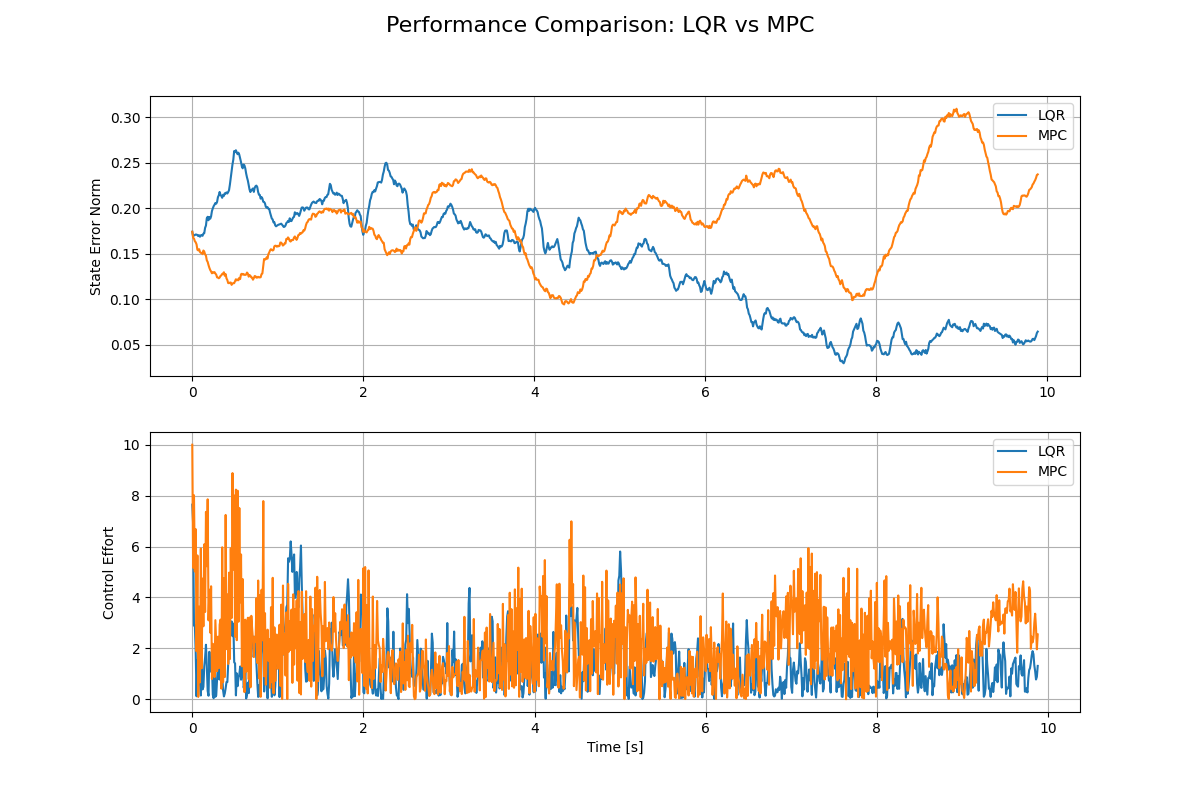
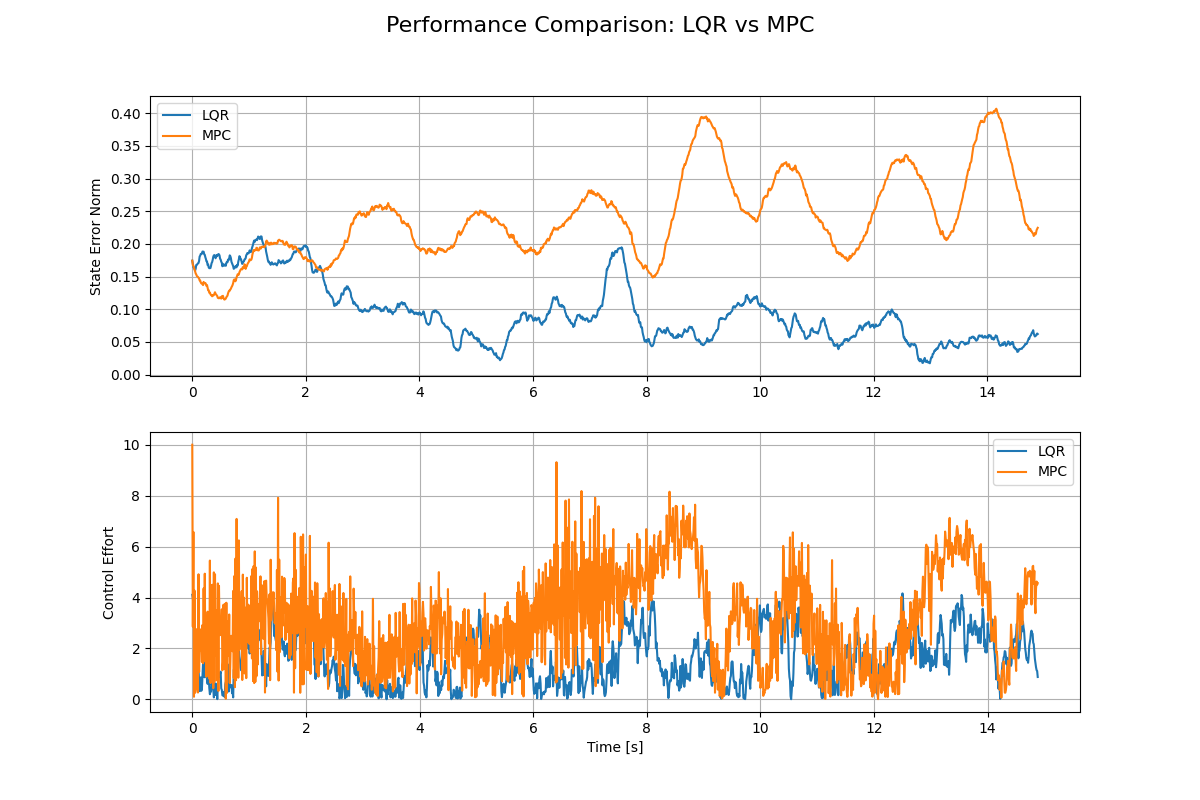
task1 e plot task 3_4

diff --git a/scripts/task3_4.py b/scripts/task3_4.py
@@ -9,8 +9,8 @@ from dynamics import FlexibleRoboticArm
 from newton import NewtonOptimizer
 from animate import FlexibleRobotAnimator
 from parameters import (
-    m1, m2, l1, l2, r1, r2, I1, I2, g, f1, f2, dt, ns, ni
-)
+    m1, m2, l1, l2, r1, r2, I1, I2, g, f1, f2, dt, ns, ni, Q3, R3, QT3, Q4, R4, N4
+    )
 
 # Configure CVXOPT solver
 solvers.options.update({'show_progress': False, 'abstol': 1e-10, 'reltol': 1e-10, 'feastol': 1e-10})
@@ -208,16 +208,16 @@ class SimulationManager:
         # Initialize controllers
         lqr = LQRController(
             self.arm,
-            Q=np.diag([15.0, 15.0, 1.0, 1.0]),
-            R=0.0001 * np.eye(1),
-            QT=np.diag([20.0, 20.0, 1.0, 1.0])
+            Q=Q3,
+            R=R3,
+            QT=QT3
         )
         
         mpc = MPCController(
             self.arm,
-            Q=np.diag([20.0, 20.0, 10.0, 10.0]),
-            R=0.0001 * np.eye(1),
-            N=10
+            Q=Q4,
+            R=R4,
+            N=N4
         )
         
         # Run simulations
@@ -228,7 +228,29 @@ class SimulationManager:
             'lqr': (xx_lqr, uu_lqr),
             'mpc': (xx_mpc, uu_mpc)
         }
-
+    
+    def run_lqr(self, x_ref: np.ndarray, u_ref: np.ndarray, 
+                disturbances: Dict) -> Tuple[np.ndarray, np.ndarray]:
+        """Esegui solo il controllore LQR"""
+        lqr = LQRController(
+            self.arm,
+            Q=Q3,
+            R=R3,
+            QT=QT3
+        )
+        return lqr.simulate(x_ref, u_ref, disturbances)
+    
+    def run_mpc(self, x_ref: np.ndarray, u_ref: np.ndarray, 
+                disturbances: Dict) -> Tuple[np.ndarray, np.ndarray]:
+        """Esegui solo il controllore MPC"""
+        mpc = MPCController(
+            self.arm,
+            Q=Q4,
+            R=R4,
+            N=N4
+        )
+        return mpc.simulate(x_ref, u_ref, disturbances)
+    
     def plot_comparison(self, x_ref: np.ndarray, u_ref: np.ndarray, 
                     results: Dict, save_plots: bool = True):
         """Plot comparison of LQR and MPC results"""
@@ -300,7 +322,47 @@ class SimulationManager:
                 print(f"Error saving plots: {e}")
         
         plt.show()
-
+    
+    def plot_single(self, x_ref: np.ndarray, u_ref: np.ndarray, 
+                    result: Tuple[np.ndarray, np.ndarray], controller_name: str,
+                    save_plot: bool = True):
+        """Plot per un singolo controllore"""
+        xx, uu = result
+        T_ref = x_ref.shape[1]
+        T_sim = xx.shape[1]
+        T = min(T_ref, T_sim)
+        time = np.arange(T) * dt
+        
+        fig, axs = plt.subplots(5, 1, figsize=(12, 15), sharex=True)
+        fig.suptitle(f'Simulazione con {controller_name}', fontsize=16)
+        
+        state_labels = [r'$\theta_1$', r'$\theta_2$', 
+                        r'$\dot{\theta}_1$', r'$\dot{\theta}_2$']
+        for i in range(4):
+            ax = axs[i]
+            ax.plot(time, x_ref[i, :T], 'k--', label='Riferimento', alpha=0.7)
+            ax.plot(time, xx[i, :T], 'b-', label=controller_name, alpha=0.8)
+            ax.set_ylabel(state_labels[i])
+            ax.grid(True)
+            ax.legend()
+            
+        ax = axs[4]
+        ax.plot(time, u_ref[0, :T], 'k--', label='Riferimento', alpha=0.7)
+        # Controllo: la traiettoria degli input ha una lunghezza T-1
+        ax.plot(time[:-1], uu[0, :(T-1)], 'b-', label=controller_name, alpha=0.8)
+        ax.set_ylabel('Input di Controllo u')
+        ax.set_xlabel('Tempo [s]')
+        ax.grid(True)
+        ax.legend()
+        
+        plt.tight_layout()
+        if save_plot:
+            try:
+                fig.savefig(f'plots/{controller_name.lower()}_simulation.png')
+                print(f"Plot per {controller_name} salvato correttamente")
+            except Exception as e:
+                print(f"Errore nel salvataggio del plot: {e}")
+        plt.show()
 
 def main():
     """Main execution function"""
@@ -321,18 +383,41 @@ def main():
             "gaussian_std": 0.002,
         }
         
-        # Create simulation manager and run comparison
+        # Se si desidera perturbare anche i parametri del sistema
+        if disturbances.get("perturbed_params"):
+            arm = FlexibleRoboticArm(m1 * 1.03, m2 * 1.05, l1 * 1.02, l2 * 1.04, r1, r2, I1, I2, g, f1, f2, dt, ns, ni)
+        
         sim_manager = SimulationManager(arm)
-        results = sim_manager.run_comparison(x_ref, u_ref, disturbances)
         
-        # Plot results
-        sim_manager.plot_comparison(x_ref, u_ref, results)
+        # Scegli la modalità di simulazione
+        print("Seleziona la modalità di simulazione:")
+        print("1 - Solo LQR")
+        print("2 - Solo MPC")
+        print("3 - Confronto (LQR e MPC)")
+        mode = input("Inserisci 1, 2 o 3: ").strip()
         
-        # Optionally animate results
-        animate = False
-        if animate:
-            animator = FlexibleRobotAnimator(results['mpc'][0].T, dt=dt)
-            animator.animate()
+        if mode == "1":
+            print("Esecuzione della simulazione con LQR...")
+            result = sim_manager.run_lqr(x_ref, u_ref, disturbances)
+            sim_manager.plot_single(x_ref, u_ref, result, "LQR")
+            
+        elif mode == "2":
+            print("Esecuzione della simulazione con MPC...")
+            result = sim_manager.run_mpc(x_ref, u_ref, disturbances)
+            sim_manager.plot_single(x_ref, u_ref, result, "MPC")
+            
+        elif mode == "3":
+            print("Esecuzione della simulazione per il confronto LQR vs MPC...")
+            results = sim_manager.run_comparison(x_ref, u_ref, disturbances)
+            sim_manager.plot_comparison(x_ref, u_ref, results)
+            
+            # Esempio: per animare il risultato MPC (opzionale)
+            animate = input("Vuoi animare il risultato MPC? (s/n): ").strip().lower() == 's'
+            if animate:
+                animator = FlexibleRobotAnimator(results['mpc'][0].T, dt=dt)
+                animator.animate()
+        else:
+            print("Modalità non valida. Terminazione del programma.")
         
     except FileNotFoundError:
         print("Error: Could not find trajectory file")

diff --git a/scripts/task1.py b/scripts/task1.py
@@ -5,12 +5,14 @@ from traj import TrajectoryGenerator, TrajectoryType
 from newton import NewtonOptimizer
 from parameters import m1, m2, l1, l2, r1, r2, I1, I2, g, f1, f2, dt, ns, ni, fixed_stepsize, stepsize_0, cc, beta, armijo_maxiters
 from parameters import Q1, R1, QT1
+from utils import generate_u_ref
 from animate import FlexibleRobotAnimator
+from matplotlib import pyplot as plt
 
 if __name__ == "__main__":
 
-    T = 3.0  # Total time
-    plot = True
+    T = 3.5  # Total time
+    plot = False
     plot_armijo = False
     
     # Initialize system
@@ -24,13 +26,25 @@ if __name__ == "__main__":
     print('\nGenerating reference trajectory...\n')
     traj_gen = TrajectoryGenerator(x_waypoints, waypoint_times, T, dt)
     x_ref, t_array = traj_gen.generate_trajectory(TrajectoryType.STEP)
+    u_ref = generate_u_ref(arm, x_ref)
     print('Reference trajectory generated.\n')
 
     if plot:
         traj_gen.plot_trajectory(TrajectoryType.STEP)
 
+        # Plot u_ref
+        plt.figure()
+        u_plot = np.squeeze(u_ref)
+        plt.plot(t_array[:-1], u_plot, label='u_ref')
+        plt.xlabel('Time (s)')
+        plt.ylabel('Control Input')
+        plt.title("Reference Control Input Trajectory (u_ref)")
+        plt.legend()
+        plt.grid(True)
+        plt.show()
+
     x_ref = x_ref.T
-    u_ref = np.zeros((ni, x_ref.shape[1]-1))
+    u_ref = u_ref.T
 
     # Initialize optimizer
     optimizer = NewtonOptimizer(arm, cost, dt, fixed_stepsize, stepsize_0, cc, beta, armijo_maxiters)
@@ -38,7 +52,7 @@ if __name__ == "__main__":
     print('Optimizing...\n')
     x_optimal, u_optimal, costs = optimizer.newton_optimize(x_ref, u_ref, 
                                             max_iters=100, 
-                                            threshold_grad=1e-6,
+                                            threshold_grad=1e-3,
                                             use_armijo=True,
                                             show_plots_armijo=plot_armijo)
     

diff --git a/scripts/task2.py b/scripts/task2.py
@@ -7,7 +7,7 @@ from newton import NewtonOptimizer
 from parameters import m1, m2, l1, l2, r1, r2, I1, I2, g, f1, f2, dt, ns, ni, fixed_stepsize, stepsize_0, cc, beta, armijo_maxiters
 from parameters import Q2, R2, QT2
 from animate import FlexibleRobotAnimator
-from utils import generate_initial_input_trajectory
+from utils import generate_u_ref
 from matplotlib import pyplot as plt
 
 if __name__ == "__main__":
@@ -33,7 +33,7 @@ if __name__ == "__main__":
     print('\nGenerating reference trajectory...\n')
     traj_gen = TrajectoryGenerator(x_waypoints, waypoint_times, T, dt)
     x_ref, t_array = traj_gen.generate_trajectory(TrajectoryType.CUBIC)
-    u_ref = generate_initial_input_trajectory(arm, x_ref)
+    u_ref = generate_u_ref(arm, x_ref)
     print('Reference trajectory generated.\n')
 
     if plot:
@@ -50,8 +50,6 @@ if __name__ == "__main__":
         plt.legend()
         plt.grid(True)
         plt.show()
-
-
 
     x_ref = x_ref.T
     u_ref = u_ref.T

diff --git a/scripts/parameters.py b/scripts/parameters.py
@@ -21,10 +21,20 @@ armijo_maxiters = 10
 
 # Task1
 Q1 = np.diag([20.0, 20.0, 1.0, 1.0]) # 15 40 15 13
-R1 = 0.001*np.eye(1)
+R1 = 0.0005*np.eye(1)
 QT1 = None
 
 # Task2
 Q2 = np.diag([15.0, 15.0, 1.0, 1.0])
 R2 = 0.0005*np.eye(1)
 QT2 = None
+
+# LQR
+Q3 = np.diag([15.0, 15.0, 1.0, 1.0])
+R3 = 0.0005 * np.eye(1)
+QT3 = np.diag([20.0, 20.0, 1.0, 1.0])
+
+# MPC
+Q4 = np.diag([30.0, 30.0, 1.0, 1.0])
+R4 = 0.00001 * np.eye(1)
+N4 = 10

diff --git a/scripts/utils.py b/scripts/utils.py
@@ -2,7 +2,7 @@ import numpy as np
 from dynamics import FlexibleRoboticArm
 
 
-def generate_initial_input_trajectory(arm:FlexibleRoboticArm, x_traj, max_iter=100, step_size=0.1, tol=1e-4):
+def generate_u_ref(arm:FlexibleRoboticArm, x_traj, max_iter=100, step_size=0.1, tol=1e-4):
     """
     Gravity Compensation
     """
